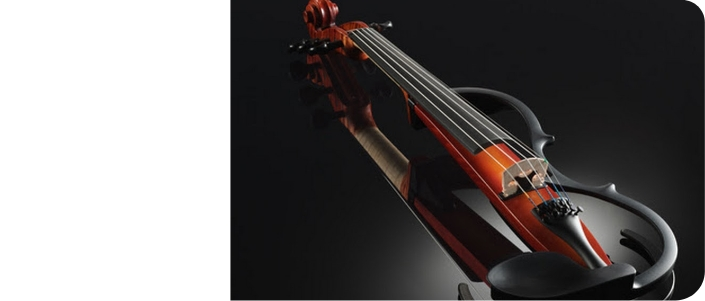
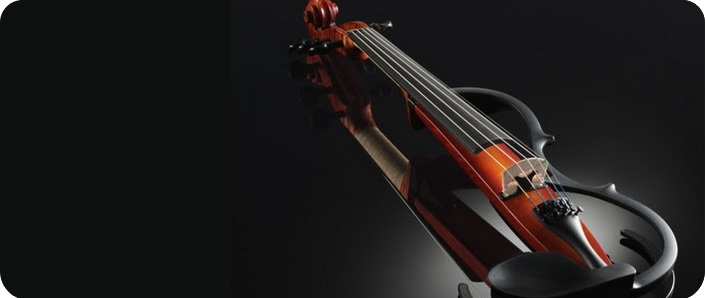
Правки ПК

diff --git a/#src/scss/style.scss b/#src/scss/style.scss
@@ -163,6 +163,7 @@ h5 {
 	align-items: flex-end;
 	height: 495px;
 	padding: 70px 93px;
+	background: grey;
 	background-position: center;
 	background-repeat: no-repeat;
 	background-size: cover;
@@ -200,34 +201,16 @@ h5 {
 		flex: 0 1 31.73%;
 		height: 238px;
 		padding: 25px 52px;
+		background: grey;
 		background-repeat: no-repeat;
 		background-position: 0 0;
 		background-size: cover;
 		border-radius: 25px;
 		overflow: hidden;
 		margin-bottom: 34px;
-		&:nth-child(1) {
-			background-image: url('../img/range/01.jpg');
-		}
-		&:nth-child(2) {
-			background-image: url('../img/range/02.jpg');
-		}
-		&:nth-child(3) {
-			background-image: url('../img/range/03.jpg');
-		}
-		&:nth-child(4) {
-			flex: 0 1 49%;
-			height: 300px;
-			background-image: url('../img/range/04.jpg');
-		}
-		&:nth-child(5) {
-			flex: 0 1 49%;
-			height: 300px;
-			background-image: url('../img/range/05.jpg');
-		}
 	}
 	&__card-nuar_blk {
-		 background-color: #00000055;
+		 background-color: #00000045;
 	}
 	// .ranges__card-title
 	&__card-title {
@@ -240,12 +223,30 @@ h5 {
 		color: #fff;
 	}
 }
-
-.ranges__card:nth-child(4) .ranges__card-title {
+.ranges__card_01 {
+	background-image: url('../img/range/01.jpg');
+}
+.ranges__card_02 {
+	background-image: url('../img/range/02.jpg');
+}
+.ranges__card_03 {
+	background-image: url('../img/range/03.jpg');
+}
+.ranges__card_04 {
+	flex: 0 1 49%;
+	height: 300px;
+	background-image: url('../img/range/04.jpg');
+}
+.ranges__card_05 {
+	flex: 0 1 49%;
+	height: 300px;
+	background-image: url('../img/range/05.jpg');
+}
+.ranges__card_04 .ranges__card-title {
 	color: #000;
 	margin-left: auto;
 }
-.ranges__card:nth-child(5) .ranges__card-title {
+.ranges__card_05 .ranges__card-title {
 	margin-right: auto;
 }
 //===================================================================================================================================
@@ -350,10 +351,11 @@ h5 {
 	&__block {
 		padding: 42px 160px 50px 162px;
 		color: #fff;
-		background-image: url('../img/form.jpg');
+		background: grey;
 		background-repeat: no-repeat;
 		background-position: 0 0;
 		background-size: cover;
+		background-image: url('../img/form.jpg');
 		border-radius: 30px;
 		overflow: hidden;
 	}
@@ -374,7 +376,7 @@ h5 {
 	&__block-form-input {
 		display: inline;
 		max-width: 401px;
-		margin-right: 28px;
+		margin-right: 20px;
 		&:last-child {
 			 margin:0px 0px 0px 0px;
 		}
@@ -392,6 +394,9 @@ h5 {
 
 .applic__block-form .form__line {
    margin-bottom: 44px;
+}
+.applic__block-form-btn {
+	padding: 6px 42px;
 }
 //===================================================================================================================================
 
@@ -467,6 +472,11 @@ h5 {
     font-size: 16px;
     color: #fff;
     background: #AF0018;
+	 background:linear-gradient(-80deg, transparent 6px, #AF0018 0);
+	 background-position: center;
+	 background-repeat: no-repeat;
+	 background-size: cover;
+	 background-image: url('../img/sticker-bg.jpg');
 	}
 }
 

diff --git a/#src/index.html b/#src/index.html
@@ -53,12 +53,12 @@
 				<div class="_container">
 					<div class="ranges__wrap">
 						
-						<div class="ranges__card">
+						<div class="ranges__card ranges__card_01">
 							<div class="ranges__card-nuar_blk nuar_blk"></div>
 							<h3 class="ranges__card-title">Инструменты</h3>
 						</div>
 
-						<div class="ranges__card">
+						<div class="ranges__card ranges__card_02">
 							<div class="ranges__card-nuar_blk nuar_blk"></div>
 							<h3 class="ranges__card-title">
 								Струны для <br>
@@ -66,17 +66,17 @@
 							</h3>
 						</div>
 
-						<div class="ranges__card">
+						<div class="ranges__card ranges__card_03">
 							<div class="ranges__card-nuar_blk nuar_blk"></div>
 							<h3 class="ranges__card-title">Новые акции</h3>
 						</div>
 
-						<div class="ranges__card">
+						<div class="ranges__card ranges__card_04">
 							<div class="ranges__card-nuar_blk nuar_blk"></div>
 							<h3 class="ranges__card-title">Аксессуары</h3>
 						</div>
 
-						<div class="ranges__card">
+						<div class="ranges__card ranges__card_05">
 							<div class="ranges__card-nuar_blk nuar_blk"></div>
 							<h3 class="ranges__card-title">Электроскрипки</h3>
 						</div>
